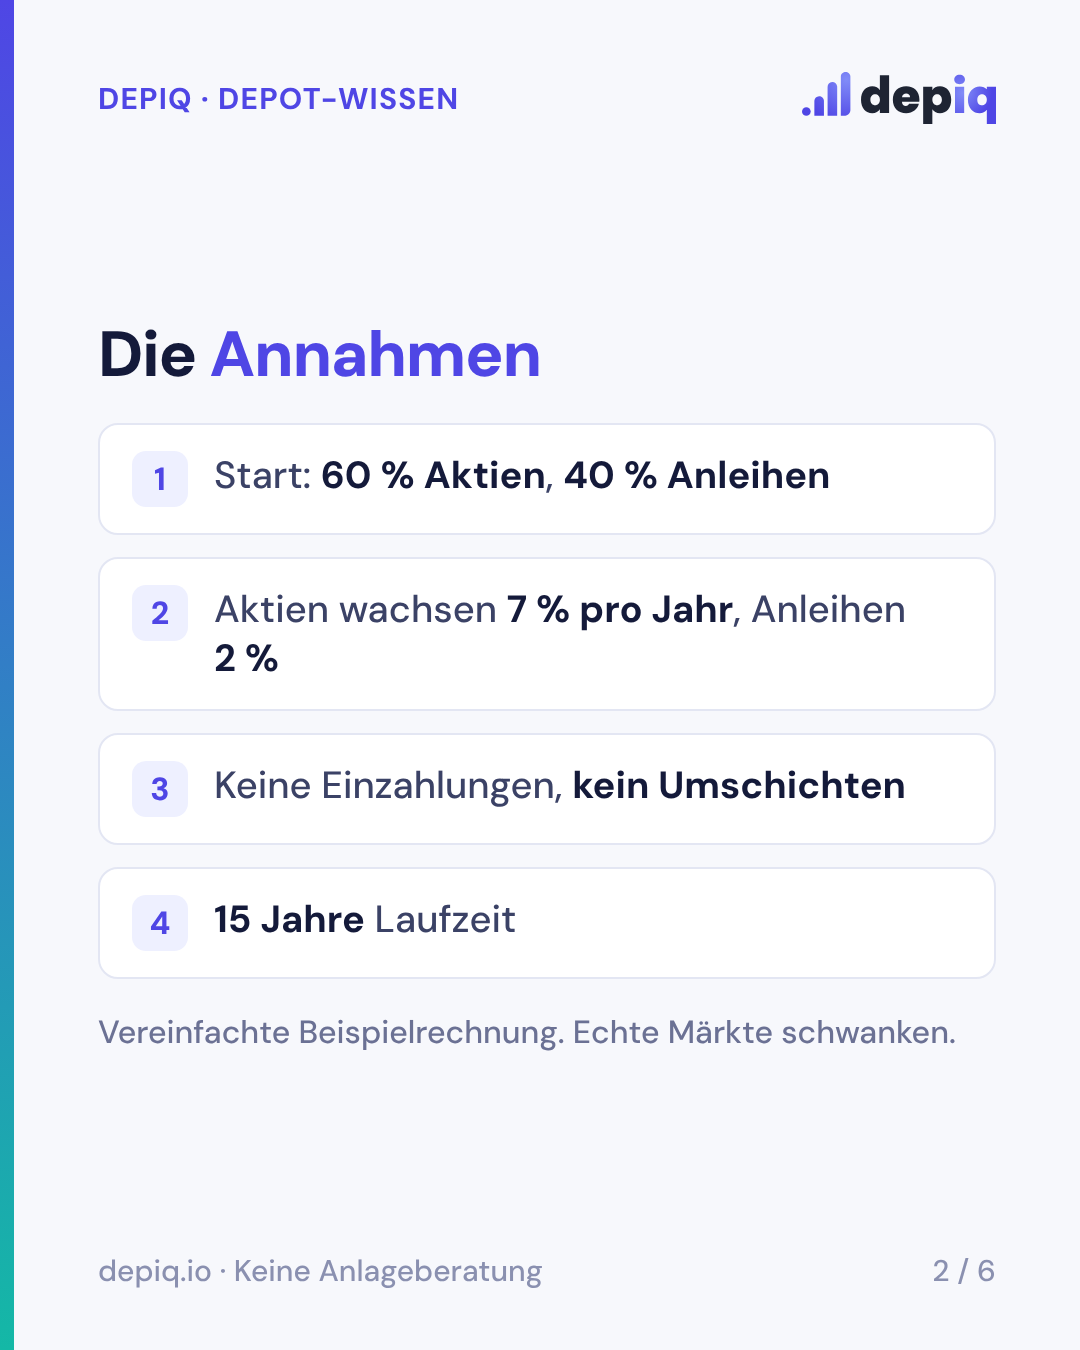
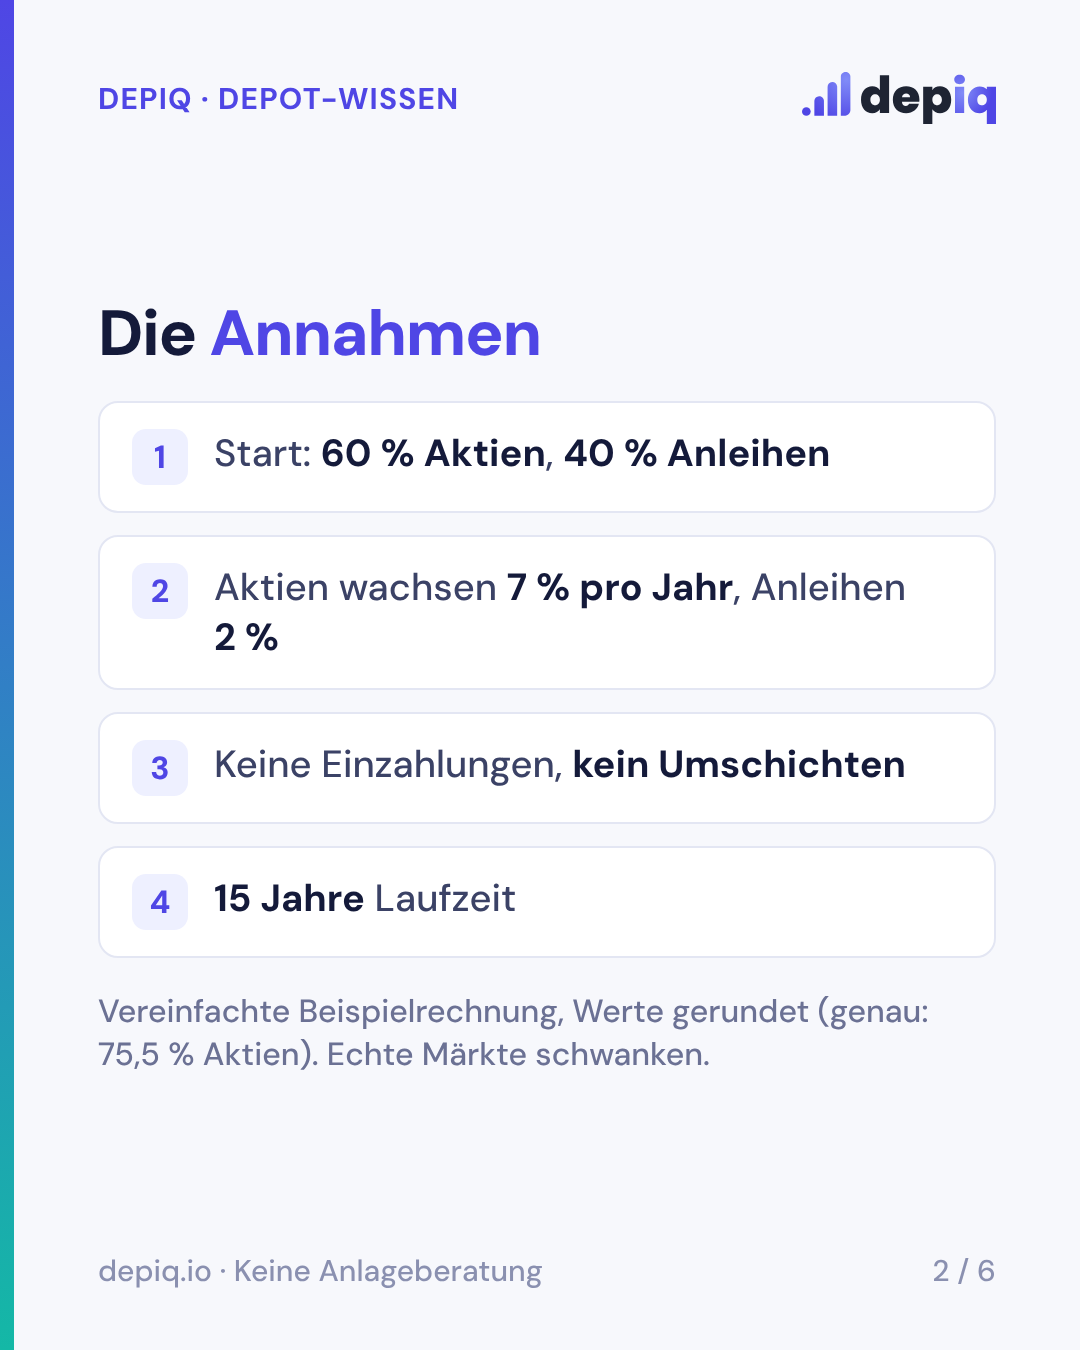
LinkedIn Rebalancing: 1 bis 2 Stunden, gerundete Werte gekennzeichnet; Regel ergänzt
Claude-Session: https://claude.ai/code/session_01TCMRwfkoPUXt6cdHJjM9Lg

diff --git a/RICHTLINIEN.md b/RICHTLINIEN.md
@@ -90,7 +90,7 @@ LinkedIn bekommt **eigene Inhalte**, nicht dieselben Beiträge wie Instagram und
 - **Formate:** PDF-Dokument mit 6 bis 8 Seiten im hellen, ruhigen Design (Vorlage `vorlage/linkedin.html`), ein Diagramm mit einer Aussage, Textbeitrag mit Erkenntnis aus der Praxis.
 - **Rhythmus:** Dienstag und Donnerstag, 11:00 Uhr (laut Metricool die stärkste Zeit auf LinkedIn).
 - **Ziel:** kostenlose Registrierung bei depiq („Depot strukturiert verstehen – depiq.io“) und E-Book.
-- **Glaubwürdige Zahlen:** Zeitaufwand, Renditen und Ersparnisse großzügig und realistisch schätzen, nie geschönt. Lieber „etwa eine Stunde im Jahr“ als „15 Minuten“. Zu gute Zahlen wirken unseriös und kosten Vertrauen. Renditen eher vorsichtig ansetzen, Annahmen immer nennen.
+- **Glaubwürdige Zahlen:** Zeitaufwand, Renditen und Ersparnisse großzügig und realistisch schätzen, nie geschönt. Lieber „1 bis 2 Stunden im Jahr“ als „15 Minuten“. Gerundete Werte mit „rund“ oder „≈“ kennzeichnen, genauen Wert bei den Annahmen nennen. Aussagen über depiq nur, wenn die Funktion wirklich existiert. Zu gute Zahlen wirken unseriös und kosten Vertrauen. Renditen eher vorsichtig ansetzen, Annahmen immer nennen.
 - Kein Börsen-Frühstück, keine Emotions-Bilder, keine Reels auf LinkedIn.
 
 ## 5. Dateien und Namen
